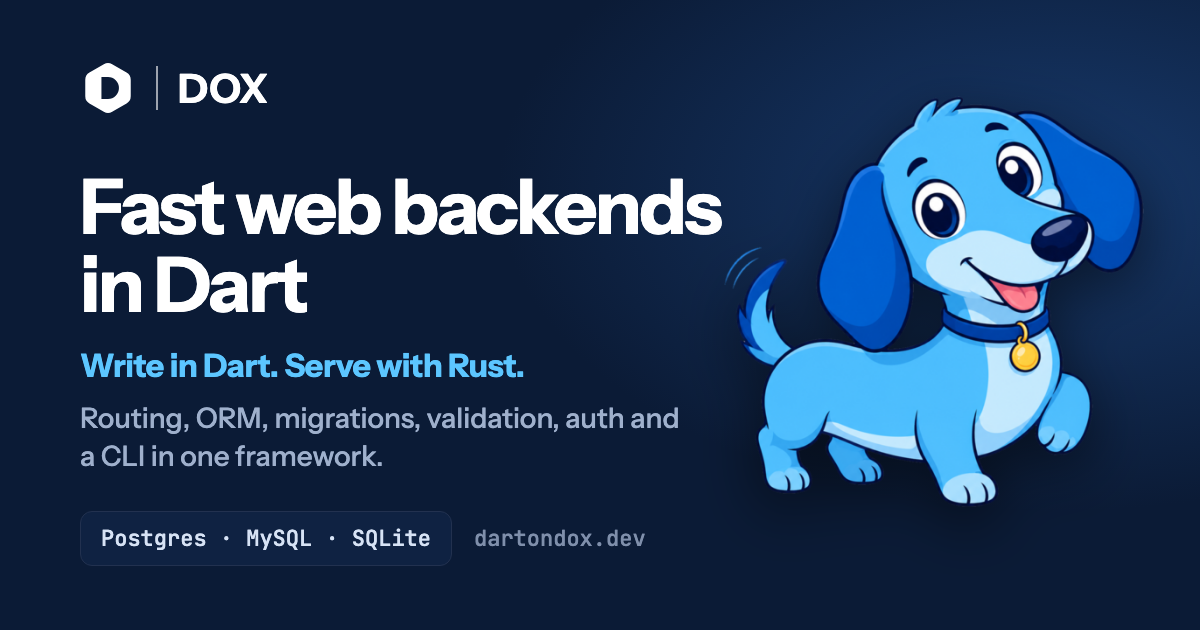
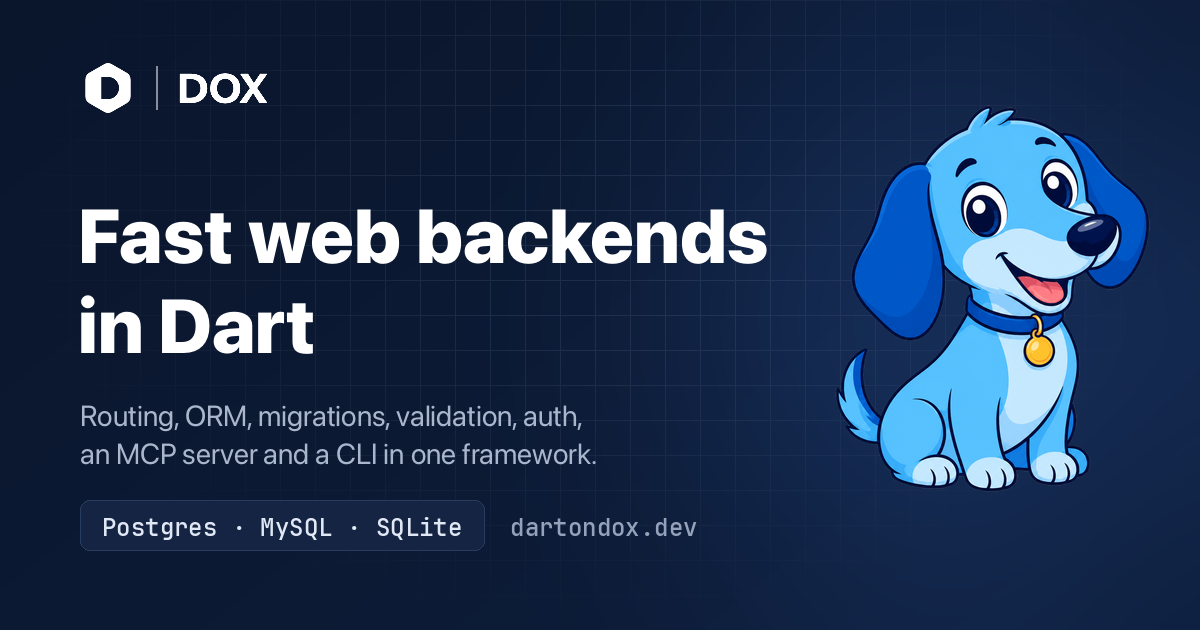
Site: new social card, a line between blog posts, no Rust in the copy (#434)
- New social card: happy Doxie, the site grid, mentions the MCP server, no Rust line.
- Blog list: a thin line between the posts.
- Site description and home page say native HTTP server and native drivers.

diff --git a/docs/assets/style.css b/docs/assets/style.css
@@ -476,3 +476,13 @@ body::before {
   -webkit-mask-image: radial-gradient(ellipse 50% 65% at 50% 35%, #000 30%, transparent 100%);
   mask-image: radial-gradient(ellipse 50% 65% at 50% 35%, #000 30%, transparent 100%);
 }
+
+/* Blog list: a thin line between the posts. */
+.md-post--excerpt {
+  padding-bottom: 1.5rem;
+  margin-bottom: 2rem;
+  border-bottom: 1px solid var(--md-default-fg-color--lightest);
+}
+.md-post--excerpt:last-of-type {
+  border-bottom: none;
+}

diff --git a/docs/index.md b/docs/index.md
@@ -1,6 +1,6 @@
 ---
 title: Getting Started
-description: Dox is a fast web backend framework for Dart. Routing, an ORM, migrations, typed validation, auth and a CLI, on a Rust HTTP server.
+description: Dox is a fast web backend framework for Dart. Routing, an ORM, migrations, typed validation, auth and a CLI, on a native HTTP server.
 hide:
   - toc
 ---
@@ -59,7 +59,7 @@ class BlogController {
 2.  `@Dto()` marks an input class. `build_runner` generates the checks from the fields and their types.
 3.  The generated schema. The same schema feeds the OpenAPI docs.
 4.  Ask for the DTO as a parameter. Dox reads the query (or the body), checks it, and gives you a typed object. Bad input gets a `422` before your code runs.
-5.  The ORM. The same code runs on Postgres, MySQL and SQLite. Postgres and MySQL use native Rust drivers.
+5.  The ORM. The same code runs on Postgres, MySQL and SQLite. Postgres and MySQL use native drivers.
 
 </div>
 
@@ -177,13 +177,13 @@ at a time.
 
 -   :material-lightning-bolt: **Fast by default**
 
-    A Rust HTTP server, one isolate per CPU core and streamed bodies.
+    A native HTTP server, one isolate per CPU core and streamed bodies.
     `dox build` makes one native binary. See [Performance](digging-deeper/performance.md).
 
 -   :material-database-outline: **ORM and query builder**
 
     Models, relations, migrations and transactions for Postgres, MySQL/MariaDB and SQLite.
-    Postgres and MySQL use native Rust drivers. See [Database](database/index.md).
+    Postgres and MySQL use native drivers. See [Database](database/index.md).
 
 -   :material-check-decagram-outline: **Typed validation**
 
